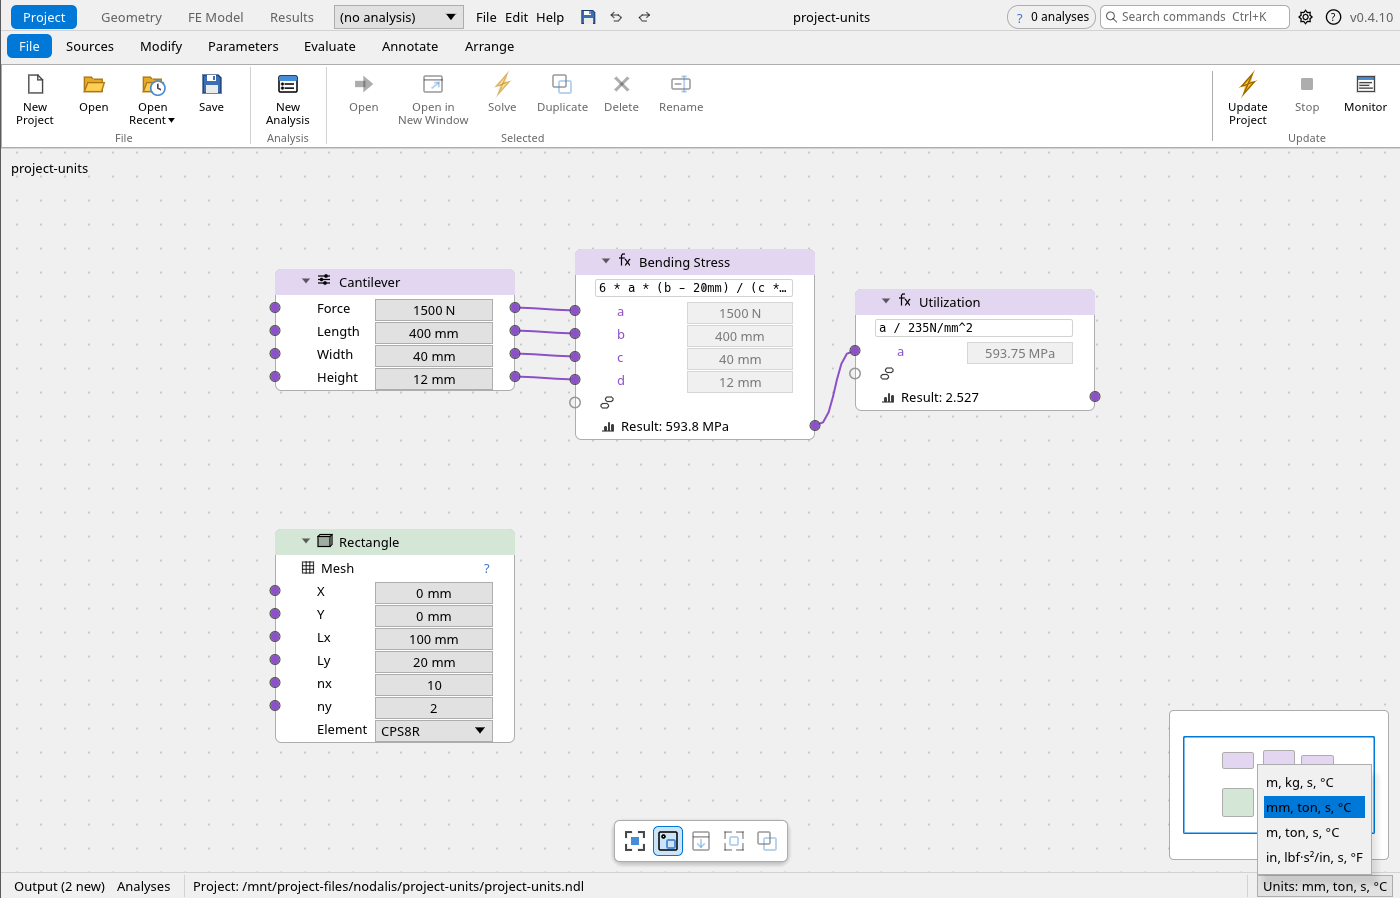
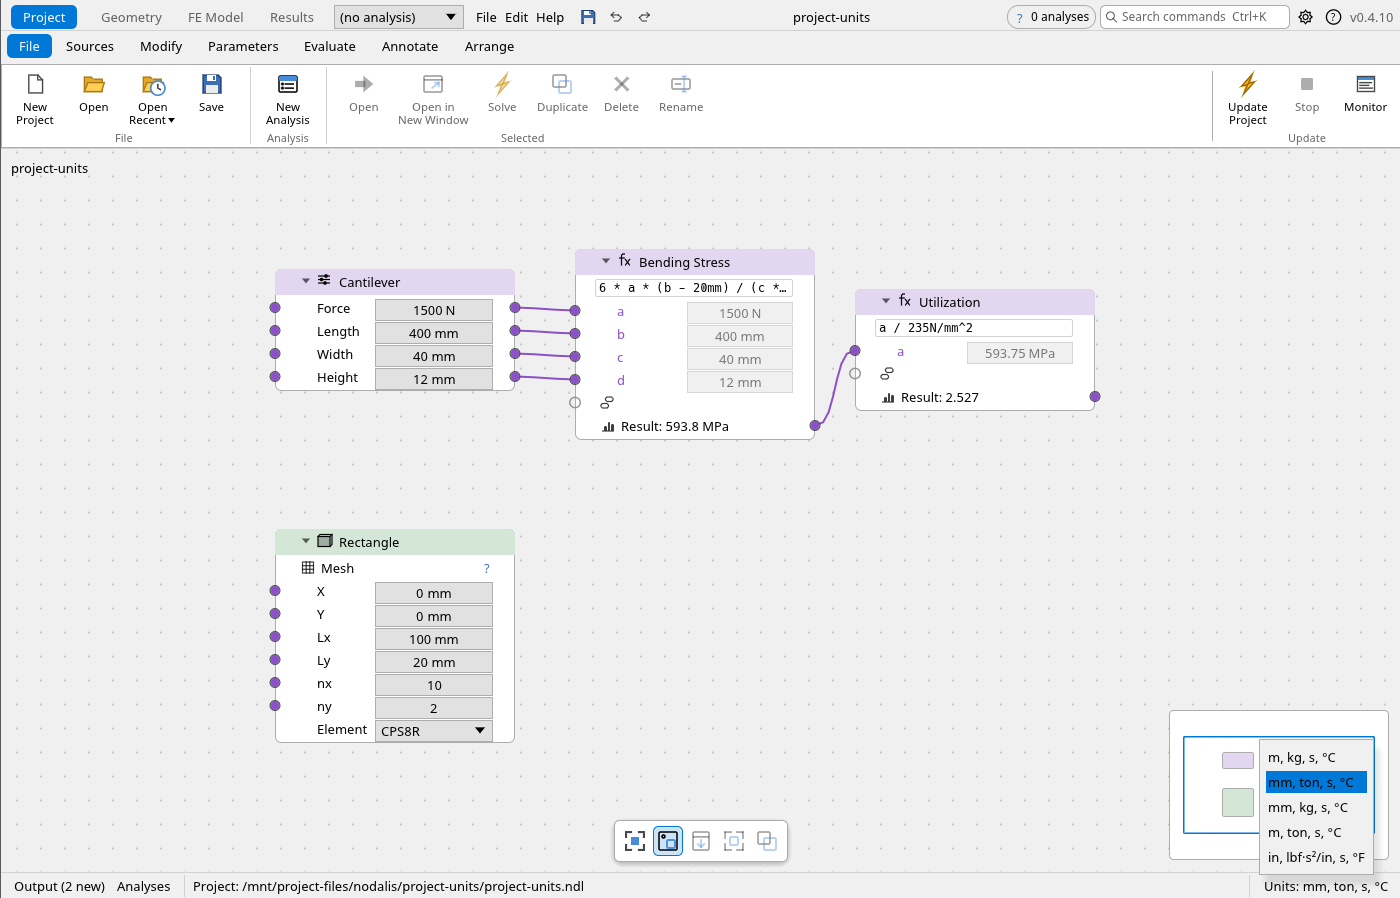
Add the unit system mm, kg, s, °C; show the units of the project as plain text that frames on hover
Claude-Session: https://claude.ai/code/session_0117wmBPRCXK3AK8kQTn6zxe

Changed region(s): [[0.8907, 0.8107, 1.0, 1.0]]

diff --git a/crates/plx-model/src/units.rs b/crates/plx-model/src/units.rs
@@ -16,6 +16,8 @@ pub enum UnitSystem {
     MmTonSC,
     MTonSC,
     InLbSF,
+    /// Millimetre and kilogram: forces in mN, stresses in kPa.
+    MmKgSC,
 }
 
 /// Kinds of quantities the unit system names a unit for.
@@ -306,10 +308,11 @@ pub const STORED: UnitSystem = UnitSystem::MKgSC;
 
 impl UnitSystem {
     /// In the order of the list.
-    pub const ALL: [UnitSystem; 5] = [
+    pub const ALL: [UnitSystem; 6] = [
         UnitSystem::Unitless,
         UnitSystem::MKgSC,
         UnitSystem::MmTonSC,
+        UnitSystem::MmKgSC,
         UnitSystem::MTonSC,
         UnitSystem::InLbSF,
     ];
@@ -320,6 +323,7 @@ impl UnitSystem {
             UnitSystem::Unitless => "Unitless",
             UnitSystem::MKgSC => "m, kg, s, °C",
             UnitSystem::MmTonSC => "mm, ton, s, °C",
+            UnitSystem::MmKgSC => "mm, kg, s, °C",
             UnitSystem::MTonSC => "m, ton, s, °C",
             UnitSystem::InLbSF => "in, lbf·s²/in, s, °F",
         }
@@ -342,42 +346,61 @@ impl UnitSystem {
     /// The unit of a quantity, as shown next to values; empty without units.
     pub fn unit(self, quantity: Quantity) -> &'static str {
         use Quantity::*;
-        // Units of m-kg, mm-t, m-t and in-lbf.
-        let [si, mm, m_t, inch] = match quantity {
-            Length => ["m", "mm", "m", "in"],
-            Angle => ["rad"; 4],
-            Mass => ["kg", "t", "t", "lbf·s²/in"],
-            Time => ["s"; 4],
-            Temperature => ["°C", "°C", "°C", "°F"],
-            Area => ["m²", "mm²", "m²", "in²"],
-            SecondMomentOfArea => ["m^4", "mm^4", "m^4", "in^4"],
-            Volume => ["m³", "mm³", "m³", "in³"],
-            Velocity => ["m/s", "mm/s", "m/s", "in/s"],
-            RotationalSpeed => ["rad/s"; 4],
-            Acceleration => ["m/s²", "mm/s²", "m/s²", "in/s²"],
-            Force => ["N", "N", "kN", "lbf"],
-            ForcePerLength => ["N/m", "N/mm", "kN/m", "lbf/in"],
-            Moment => ["N·m", "N·mm", "kN·m", "lbf·in"],
-            Pressure => ["Pa", "MPa", "kPa", "psi"],
+        // Units of m-kg, mm-t, m-t, in-lbf and mm-kg.
+        let [si, mm, m_t, inch, mm_kg] = match quantity {
+            Length => ["m", "mm", "m", "in", "mm"],
+            Angle => ["rad"; 5],
+            Mass => ["kg", "t", "t", "lbf·s²/in", "kg"],
+            Time => ["s"; 5],
+            Temperature => ["°C", "°C", "°C", "°F", "°C"],
+            Area => ["m²", "mm²", "m²", "in²", "mm²"],
+            SecondMomentOfArea => ["m^4", "mm^4", "m^4", "in^4", "mm^4"],
+            Volume => ["m³", "mm³", "m³", "in³", "mm³"],
+            Velocity => ["m/s", "mm/s", "m/s", "in/s", "mm/s"],
+            RotationalSpeed => ["rad/s"; 5],
+            Acceleration => ["m/s²", "mm/s²", "m/s²", "in/s²", "mm/s²"],
+            Force => ["N", "N", "kN", "lbf", "mN"],
+            ForcePerLength => ["N/m", "N/mm", "kN/m", "lbf/in", "mN/mm"],
+            Moment => ["N·m", "N·mm", "kN·m", "lbf·in", "mN·mm"],
+            Pressure => ["Pa", "MPa", "kPa", "psi", "kPa"],
             // The fourth power has no Latin-1 character, which the GUI font sticks to.
-            Density => ["kg/m³", "t/mm³", "t/m³", "lbf·s²/in^4"],
-            MomentOfInertia => ["kg·m²", "t·mm²", "t·m²", "lbf·s²·in"],
-            Energy => ["J", "mJ", "kJ", "lbf·in"],
-            Power => ["W", "mW", "kW", "lbf·in/s"],
-            Frequency => ["Hz"; 4],
-            ForcePerVolume => ["N/m³", "N/mm³", "kN/m³", "lbf/in³"],
-            HeatTransferCoefficient => ["W/(m²·°C)", "mW/(mm²·°C)", "kW/(m²·°C)", "lbf/(in·s·°F)"],
-            TemperatureDifference => ["°C", "°C", "°C", "°F"],
-            ThermalConductivity => ["W/(m·°C)", "mW/(mm·°C)", "kW/(m·°C)", "lbf/(s·°F)"],
-            SpecificHeat => ["J/(kg·°C)", "mJ/(t·°C)", "kJ/(t·°C)", "in²/(s²·°F)"],
-            ThermalExpansion => ["1/°C", "1/°C", "1/°C", "1/°F"],
-            HeatFlux => ["W/m²", "mW/mm²", "kW/m²", "lbf/(in·s)"],
-            PowerPerVolume => ["W/m³", "mW/mm³", "kW/m³", "lbf/(in²·s)"],
+            Density => ["kg/m³", "t/mm³", "t/m³", "lbf·s²/in^4", "kg/mm³"],
+            MomentOfInertia => ["kg·m²", "t·mm²", "t·m²", "lbf·s²·in", "kg·mm²"],
+            Energy => ["J", "mJ", "kJ", "lbf·in", "µJ"],
+            Power => ["W", "mW", "kW", "lbf·in/s", "µW"],
+            Frequency => ["Hz"; 5],
+            ForcePerVolume => ["N/m³", "N/mm³", "kN/m³", "lbf/in³", "mN/mm³"],
+            HeatTransferCoefficient => [
+                "W/(m²·°C)",
+                "mW/(mm²·°C)",
+                "kW/(m²·°C)",
+                "lbf/(in·s·°F)",
+                "µW/(mm²·°C)",
+            ],
+            TemperatureDifference => ["°C", "°C", "°C", "°F", "°C"],
+            ThermalConductivity => [
+                "W/(m·°C)",
+                "mW/(mm·°C)",
+                "kW/(m·°C)",
+                "lbf/(s·°F)",
+                "µW/(mm·°C)",
+            ],
+            SpecificHeat => [
+                "J/(kg·°C)",
+                "mJ/(t·°C)",
+                "kJ/(t·°C)",
+                "in²/(s²·°F)",
+                "µJ/(kg·°C)",
+            ],
+            ThermalExpansion => ["1/°C", "1/°C", "1/°C", "1/°F", "1/°C"],
+            HeatFlux => ["W/m²", "mW/mm²", "kW/m²", "lbf/(in·s)", "µW/mm²"],
+            PowerPerVolume => ["W/m³", "mW/mm³", "kW/m³", "lbf/(in²·s)", "µW/mm³"],
             StefanBoltzmann => [
                 "W/(m²·K^4)",
                 "mW/(mm²·K^4)",
                 "kW/(m²·K^4)",
                 "lbf/(in·s·°F^4)",
+                "µW/(mm²·K^4)",
             ],
         };
         match self {
@@ -386,6 +409,7 @@ impl UnitSystem {
             UnitSystem::MmTonSC => mm,
             UnitSystem::MTonSC => m_t,
             UnitSystem::InLbSF => inch,
+            UnitSystem::MmKgSC => mm_kg,
         }
     }
 
@@ -397,6 +421,7 @@ impl UnitSystem {
             UnitSystem::MKgSC => Some([1.0, 1.0, 1.0, 1.0]),
             UnitSystem::MmTonSC => Some([1e-3, 1e3, 1.0, 1.0]),
             UnitSystem::MTonSC => Some([1.0, 1e3, 1.0, 1.0]),
+            UnitSystem::MmKgSC => Some([1e-3, 1.0, 1.0, 1.0]),
             UnitSystem::InLbSF => Some([INCH, POUND_FORCE / INCH, 1.0, 5.0 / 9.0]),
         }
     }
@@ -958,6 +983,36 @@ mod tests {
     }
 
     #[track_caller]
+    #[test]
+    fn every_unit_shown_reads_back_as_one_unit_of_its_system() {
+        for units in UnitSystem::ALL.into_iter().filter(|u| u.has_units()) {
+            for quantity in Quantity::ALL {
+                let unit = units.unit(quantity);
+                let parsed = parse_unit(unit).unwrap_or_else(|e| panic!("{unit}: {e}"));
+                assert_eq!(parsed.dimension, quantity.dimension(), "{unit}");
+                let factor = units.si_factor(quantity).unwrap();
+                assert!(
+                    (parsed.factor / factor - 1.0).abs() < 1e-9,
+                    "{} {unit}: {} != {factor}",
+                    units.label(),
+                    parsed.factor
+                );
+            }
+        }
+    }
+
+    #[test]
+    fn millimetre_and_kilogram_give_millinewton_and_kilopascal() {
+        use Quantity::*;
+        let units = UnitSystem::MmKgSC;
+        assert!((units.shown(1.0, Force) - 1000.0).abs() < 1e-9);
+        assert!((units.shown(1e6, Pressure) - 1000.0).abs() < 1e-9);
+        assert!((units.shown(7850.0, Density) - 7.85e-6).abs() < 1e-18);
+        assert!((units.shown(0.1, Length) - 100.0).abs() < 1e-9);
+        parses(units, "210 GPa", Pressure, 2.1e8);
+        parses(units, "1 N", Force, 1000.0);
+    }
+
     fn parses(units: UnitSystem, text: &str, quantity: Quantity, expected: f64) {
         let value = units.parse_value(text, quantity).unwrap();
         assert!(close(value, expected), "{text}: {value} != {expected}");

diff --git a/crates/plx-app/src/project/units.rs b/crates/plx-app/src/project/units.rs
@@ -12,9 +12,10 @@ use super::ProjectApp;
 
 /// The unit systems the project offers: all but Unitless, which would show the SI values
 /// without their units.
-pub(super) const CHOICES: [UnitSystem; 4] = [
+pub(super) const CHOICES: [UnitSystem; 5] = [
     UnitSystem::MKgSC,
     UnitSystem::MmTonSC,
+    UnitSystem::MmKgSC,
     UnitSystem::MTonSC,
     UnitSystem::InLbSF,
 ];
@@ -45,7 +46,8 @@ pub(super) fn summary(units: UnitSystem) -> String {
 }
 
 impl ProjectApp {
-    /// The menu button of the unit system, at the right end of the status bar.
+    /// The menu button of the unit system, at the right end of the status bar: a text like
+    /// the others there, framed only while the pointer is on it.
     pub(super) fn units_menu(&mut self, ui: &mut egui::Ui) {
         let busy = (self.nodes.iter())
             .filter_map(|n| Some((n, n.as_analysis()?.window.as_ref()?.busy()?)))
@@ -54,7 +56,9 @@ impl ProjectApp {
         let mut chosen = None;
         let current = self.units;
         let button = ui.add_enabled_ui(busy.is_none(), |ui| {
-            ui.menu_button(format!("Units: {}", current.label()), |ui| {
+            let text = format!("Units: {}", current.label());
+            let button = egui::Button::new(text).frame_when_inactive(false);
+            egui::containers::menu::MenuButton::from_button(button).ui(ui, |ui| {
                 ui.style_mut().wrap_mode = Some(egui::TextWrapMode::Extend);
                 for choice in CHOICES {
                     let response = ui
@@ -73,7 +77,7 @@ impl ProjectApp {
              what is shown.\n{}",
             summary(current)
         );
-        let response = button.inner.response;
+        let response = button.inner.0;
         match busy {
             Some(why) => response.on_disabled_hover_text(why),
             None => response.on_hover_text(tip),
